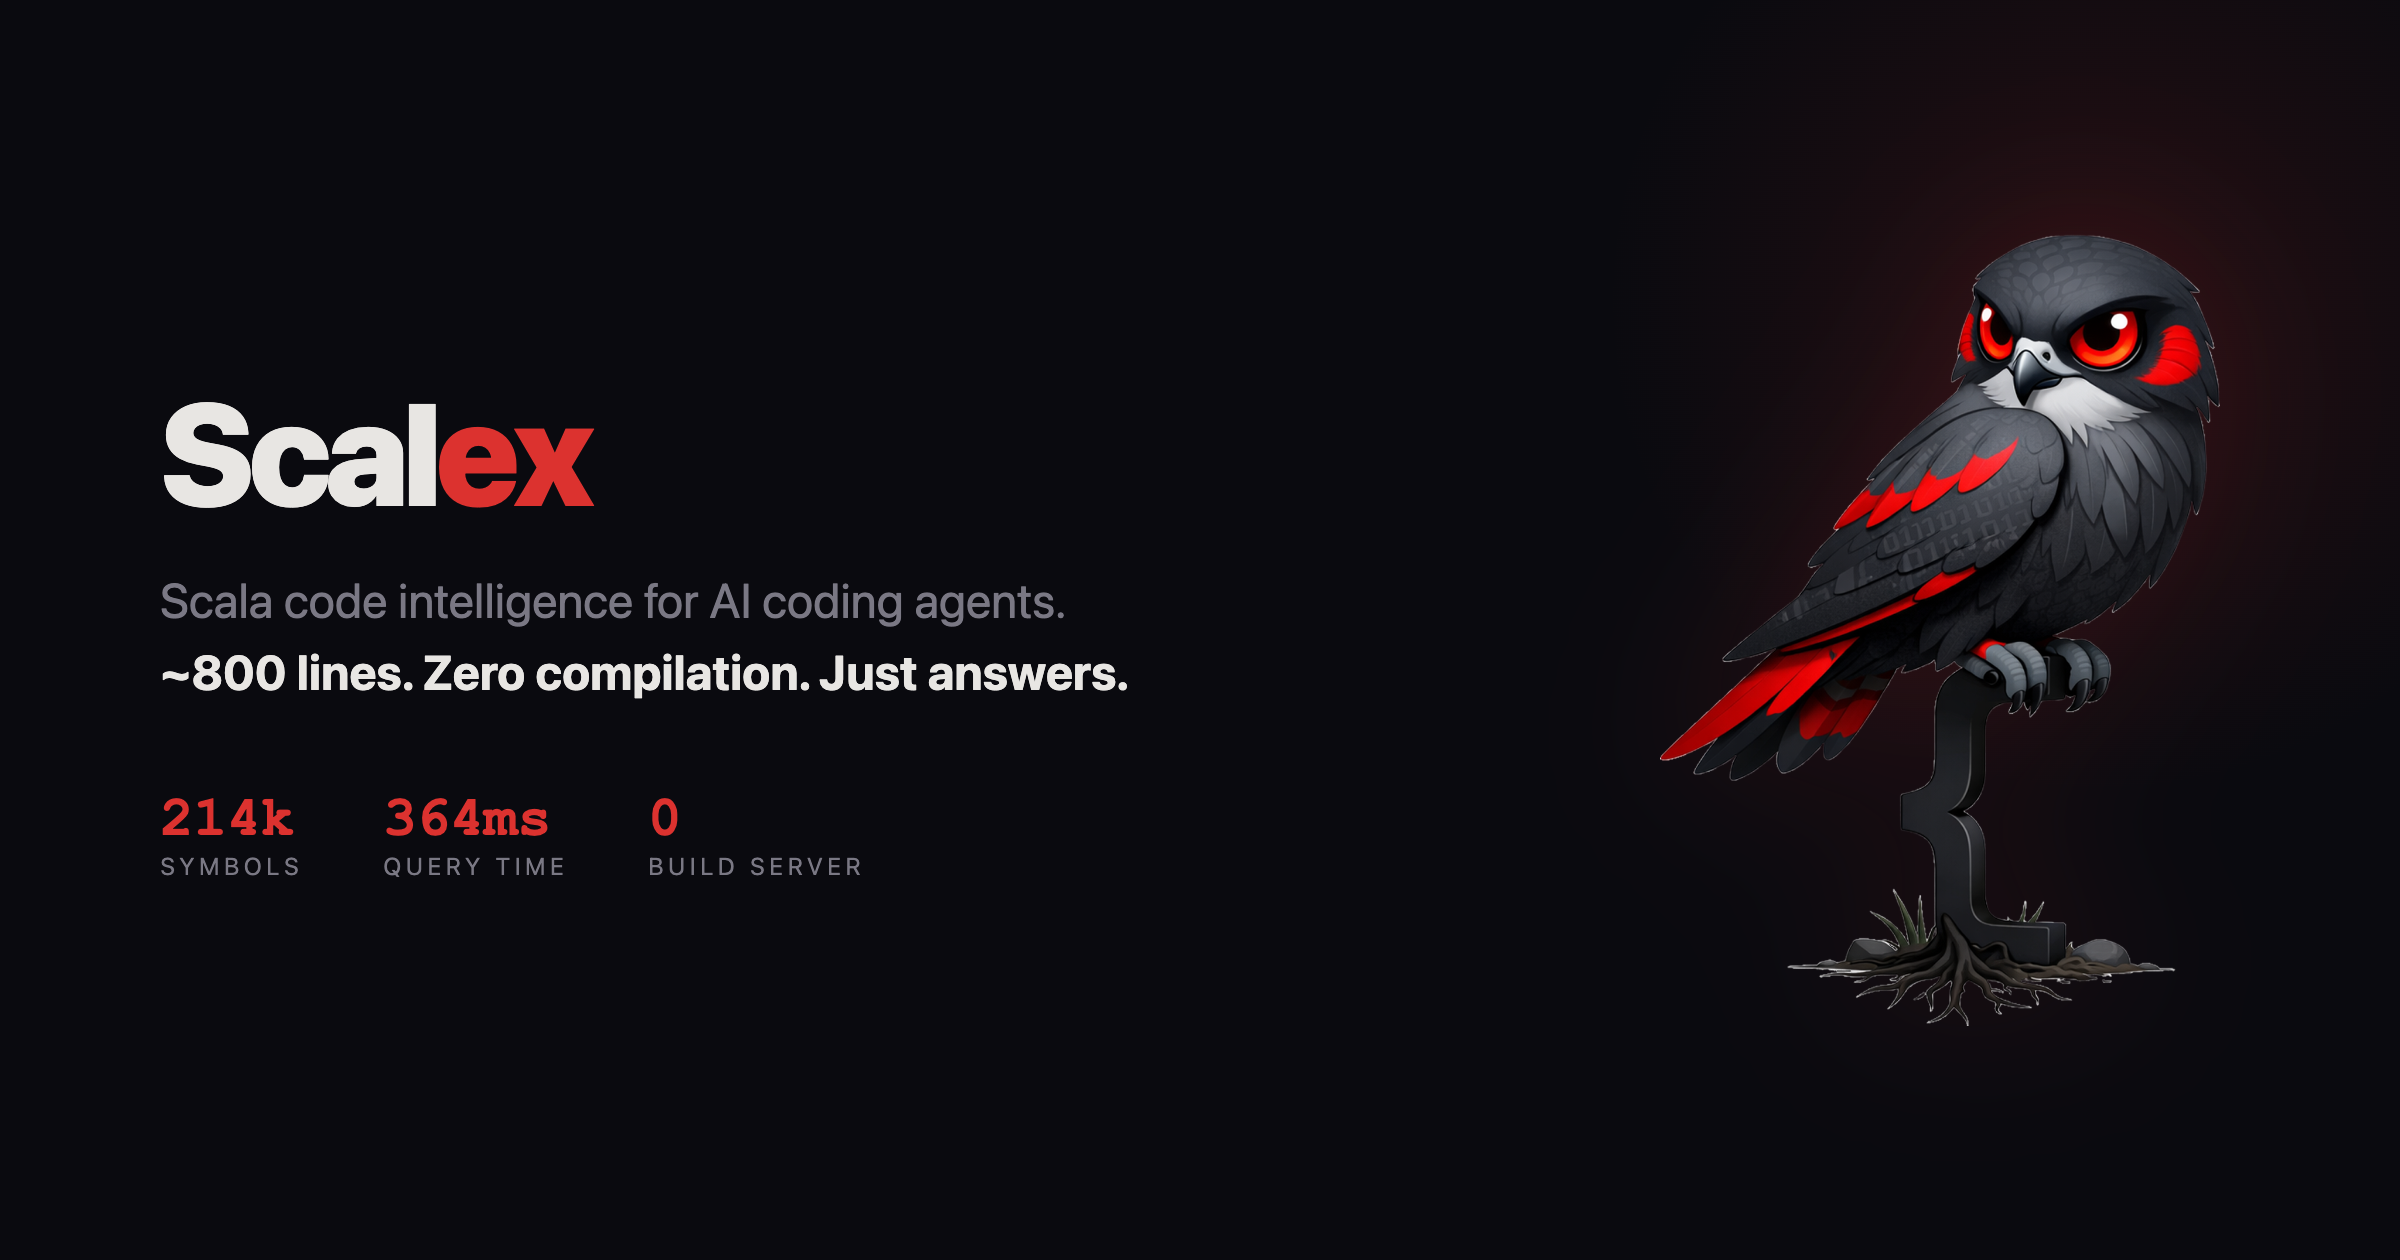
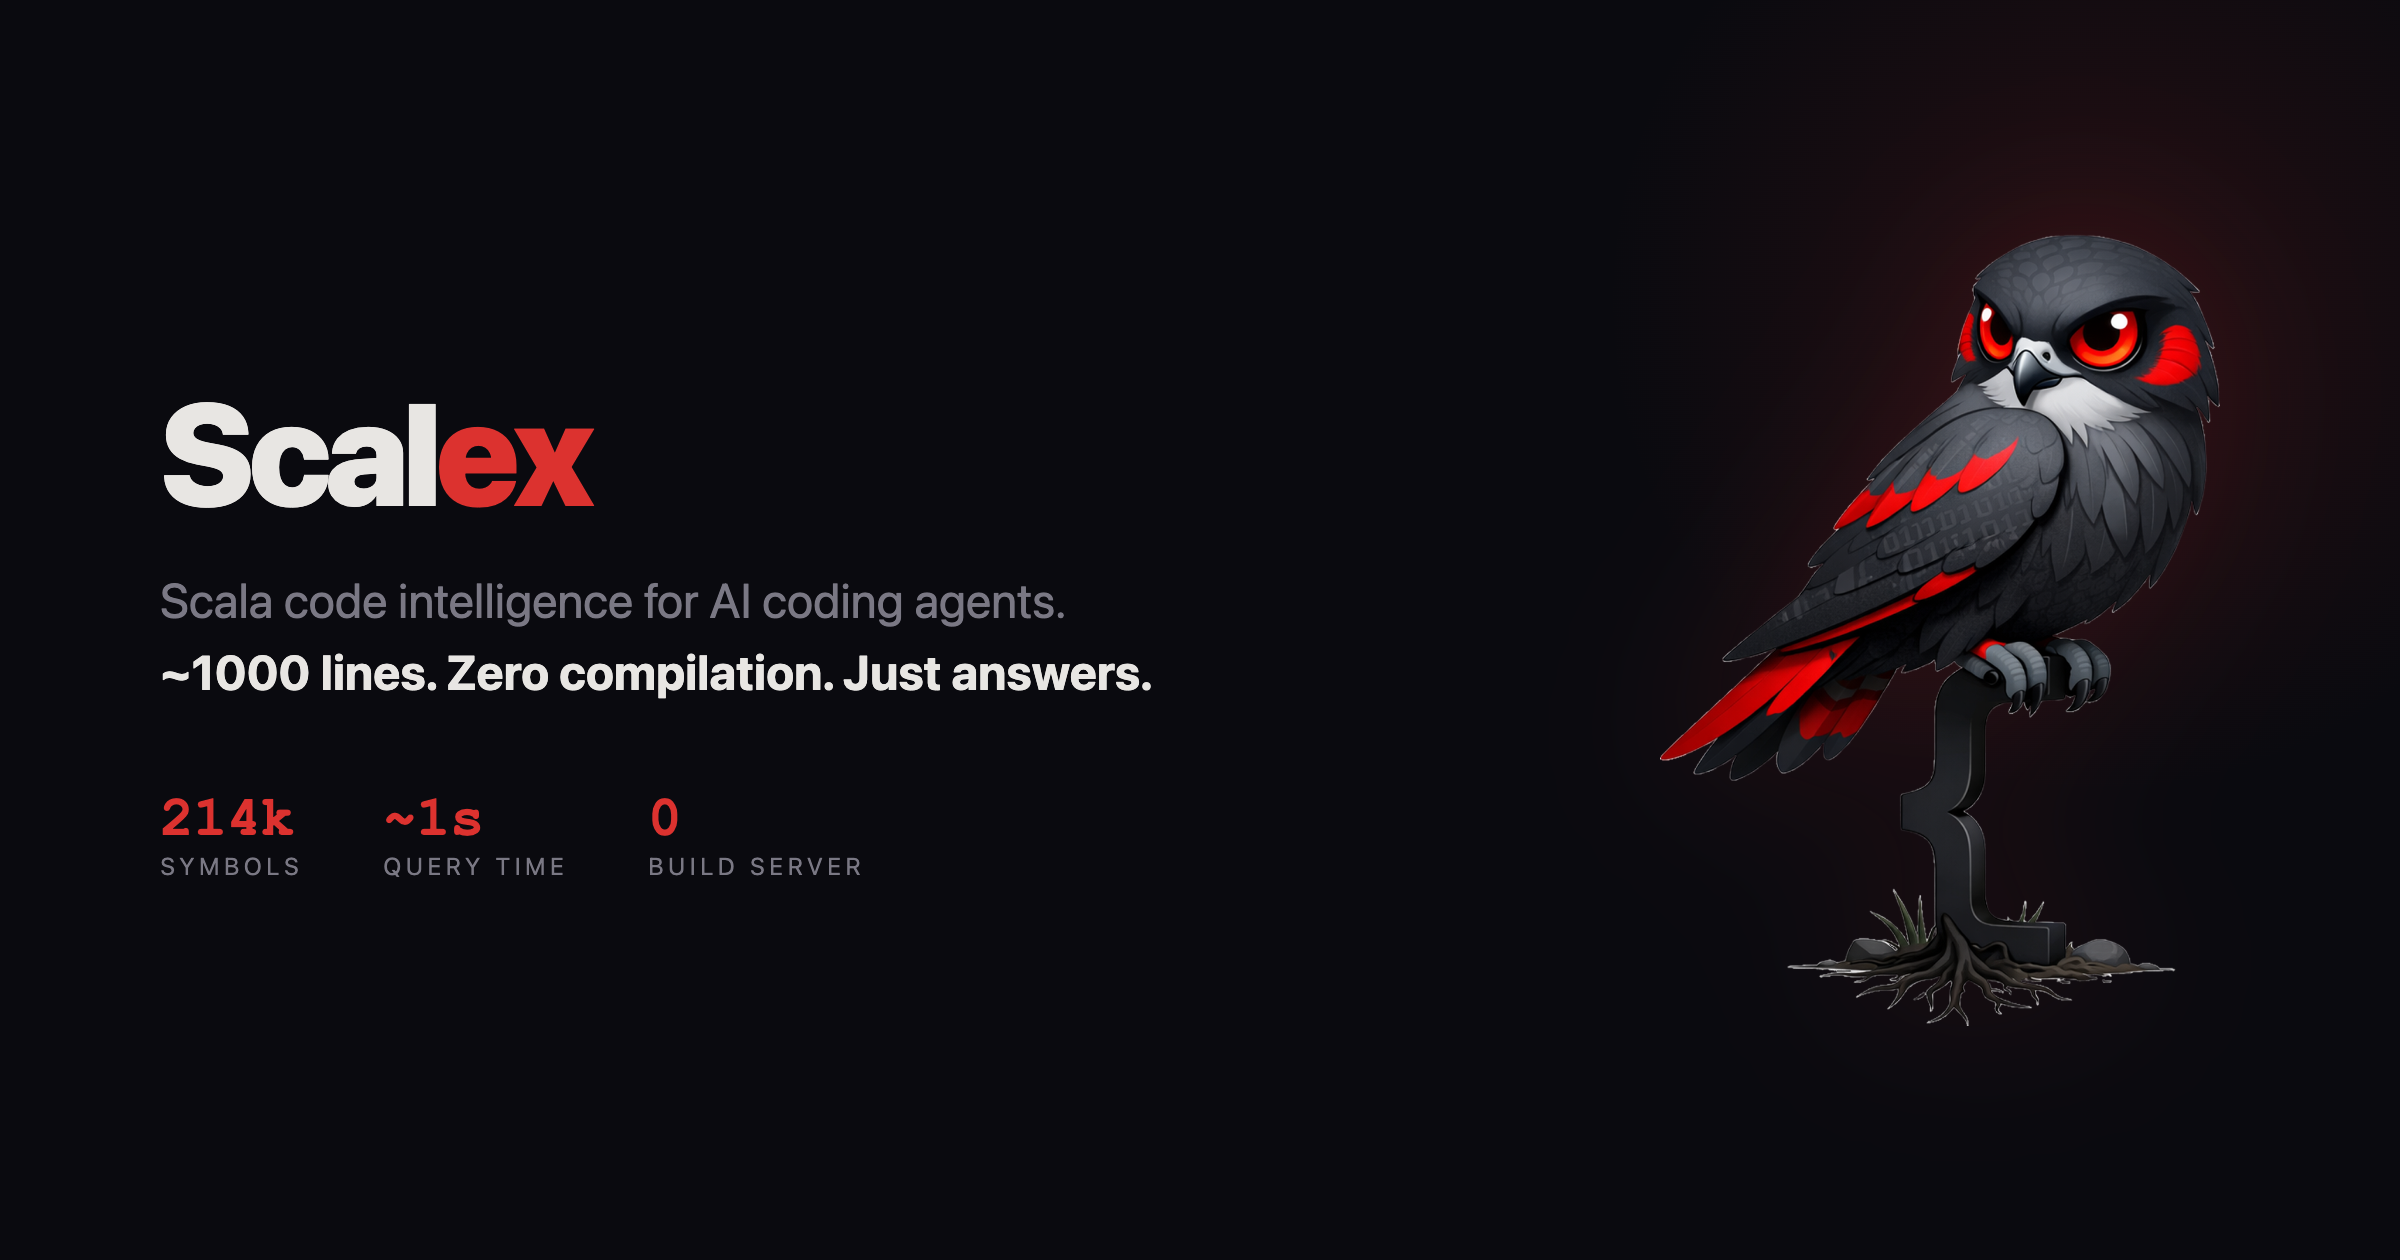
docs: update site stats to ~1000 lines and ~1s query time

Changed region(s): [[0.0625, 0.4952, 0.5, 0.5571], [0.1562, 0.619, 0.25, 0.681]]

diff --git a/site/index.html b/site/index.html
@@ -4,11 +4,11 @@
   <meta charset="UTF-8">
   <meta name="viewport" content="width=device-width, initial-scale=1.0">
   <title>Scalex — Scala Code Intelligence for AI Agents</title>
-  <meta name="description" content="~800 lines. Zero compilation. Zero build server. Search symbols, find definitions, find implementations, find references — all from source.">
+  <meta name="description" content="~1000 lines. Zero compilation. Zero build server. Search symbols, find definitions, find implementations, find references — all from source.">
 
   <!-- OpenGraph -->
   <meta property="og:title" content="Scalex — Scala Code Intelligence for AI Agents">
-  <meta property="og:description" content="~800 lines. Zero compilation. Zero build server. Just answers.">
+  <meta property="og:description" content="~1000 lines. Zero compilation. Zero build server. Just answers.">
   <meta property="og:image" content="https://nguyenyou.github.io/scalex/og-banner.png">
   <meta property="og:url" content="https://nguyenyou.github.io/scalex">
   <meta property="og:type" content="website">
@@ -16,7 +16,7 @@
   <!-- Twitter Card -->
   <meta name="twitter:card" content="summary_large_image">
   <meta name="twitter:title" content="Scalex — Scala Code Intelligence for AI Agents">
-  <meta name="twitter:description" content="~800 lines. Zero compilation. Zero build server. Just answers.">
+  <meta name="twitter:description" content="~1000 lines. Zero compilation. Zero build server. Just answers.">
   <meta name="twitter:image" content="https://nguyenyou.github.io/scalex/og-banner.png">
 
   <link rel="icon" type="image/png" sizes="32x32" href="favicon-32.png">
@@ -421,7 +421,7 @@
   <section class="hero">
     <img src="Kestrel.png" alt="Scalex Kestrel" class="mascot">
     <h1>Scal<span class="red">ex</span></h1>
-    <p class="tagline"><em>Grep knows text. Scalex knows Scala.</em><br><strong>~800 lines. Zero compilation. Zero build server. Just answers.</strong></p>
+    <p class="tagline"><em>Grep knows text. Scalex knows Scala.</em><br><strong>~1000 lines. Zero compilation. Zero build server. Just answers.</strong></p>
 
     <div class="stats">
       <div class="stat">
@@ -429,11 +429,11 @@
         <div class="stat-label">Symbols Indexed</div>
       </div>
       <div class="stat">
-        <div class="stat-value">364ms</div>
+        <div class="stat-value">~1s</div>
         <div class="stat-label">Warm Query</div>
       </div>
       <div class="stat">
-        <div class="stat-value">~800</div>
+        <div class="stat-value">~1000</div>
         <div class="stat-label">Lines of Code</div>
       </div>
       <div class="stat">
@@ -565,7 +565,7 @@
           <td>13,958</td>
           <td>214,803</td>
           <td>3.3s</td>
-          <td class="fast">364ms</td>
+          <td class="fast">~1s</td>
         </tr>
         <tr>
           <td>Scala 3 compiler</td>

diff --git a/site/og-banner-light.html b/site/og-banner-light.html
@@ -80,14 +80,14 @@
 <body>
   <div class="left">
     <h1>Scal<span>ex</span></h1>
-    <p>Scala code intelligence for AI coding agents.<br><strong>~800 lines. Zero compilation. Just answers.</strong></p>
+    <p>Scala code intelligence for AI coding agents.<br><strong>~1000 lines. Zero compilation. Just answers.</strong></p>
     <div class="stats">
       <div>
         <div class="stat-value">214k</div>
         <div class="stat-label">Symbols</div>
       </div>
       <div>
-        <div class="stat-value">364ms</div>
+        <div class="stat-value">~1s</div>
         <div class="stat-label">Query Time</div>
       </div>
       <div>

diff --git a/site/og-banner.html b/site/og-banner.html
@@ -80,14 +80,14 @@
 <body>
   <div class="left">
     <h1>Scal<span>ex</span></h1>
-    <p>Scala code intelligence for AI coding agents.<br><strong>~800 lines. Zero compilation. Just answers.</strong></p>
+    <p>Scala code intelligence for AI coding agents.<br><strong>~1000 lines. Zero compilation. Just answers.</strong></p>
     <div class="stats">
       <div>
         <div class="stat-value">214k</div>
         <div class="stat-label">Symbols</div>
       </div>
       <div>
-        <div class="stat-value">364ms</div>
+        <div class="stat-value">~1s</div>
         <div class="stat-label">Query Time</div>
       </div>
       <div>

diff --git a/site/readme-banner-dark.html b/site/readme-banner-dark.html
@@ -80,14 +80,14 @@
 <body>
   <div class="left">
     <h1>Scal<span>ex</span></h1>
-    <p><em>Grep knows text. Scalex knows Scala.</em><br><strong>~800 lines. Zero compilation. Just answers.</strong></p>
+    <p><em>Grep knows text. Scalex knows Scala.</em><br><strong>~1000 lines. Zero compilation. Just answers.</strong></p>
     <div class="stats">
       <div>
         <div class="stat-value">214k</div>
         <div class="stat-label">Symbols</div>
       </div>
       <div>
-        <div class="stat-value">364ms</div>
+        <div class="stat-value">~1s</div>
         <div class="stat-label">Query Time</div>
       </div>
       <div>

diff --git a/site/readme-banner-light.html b/site/readme-banner-light.html
@@ -80,14 +80,14 @@
 <body>
   <div class="left">
     <h1>Scal<span>ex</span></h1>
-    <p><em>Grep knows text. Scalex knows Scala.</em><br><strong>~800 lines. Zero compilation. Just answers.</strong></p>
+    <p><em>Grep knows text. Scalex knows Scala.</em><br><strong>~1000 lines. Zero compilation. Just answers.</strong></p>
     <div class="stats">
       <div>
         <div class="stat-value">214k</div>
         <div class="stat-label">Symbols</div>
       </div>
       <div>
-        <div class="stat-value">364ms</div>
+        <div class="stat-value">~1s</div>
         <div class="stat-label">Query Time</div>
       </div>
       <div>

diff --git a/site/MASCOT.md b/site/MASCOT.md
@@ -24,7 +24,7 @@ A **small kestrel** (the smallest falcon) — fast, sharp-eyed, lightweight, hov
 
 ### Why a kestrel?
 
-- **Smallest falcon** — reflects our lightweight, minimal design (~800 lines of code)
+- **Smallest falcon** — reflects our lightweight, minimal design (~1000 lines of code)
 - **Incredible eyesight** — spots symbols from across 14k files, like a kestrel spots prey from 50 meters
 - **Hovers in place** — systematically scans an area before diving, like indexing before querying
 - **Fast dive** — instant results once it finds the target

diff --git a/README.md b/README.md
@@ -138,7 +138,7 @@ The entire tool is ~1000 lines of Scala 3 in a single file. Here's the architect
 |---|---|---|---|---|
 | Small library | 92 | 259 | ~50ms | ~10ms |
 | Mill build tool | 1,415 | 12,778 | 214ms | 50ms |
-| Production monorepo | 13,958 | 214,803 | 3.3s | 364ms |
+| Production monorepo | 13,970 | 214,154 | 5.2s | 1.0s |
 | Scala 3 compiler | 17,731 | 202,916 | 3.3s | 777ms |
 
 ## Quick Start
